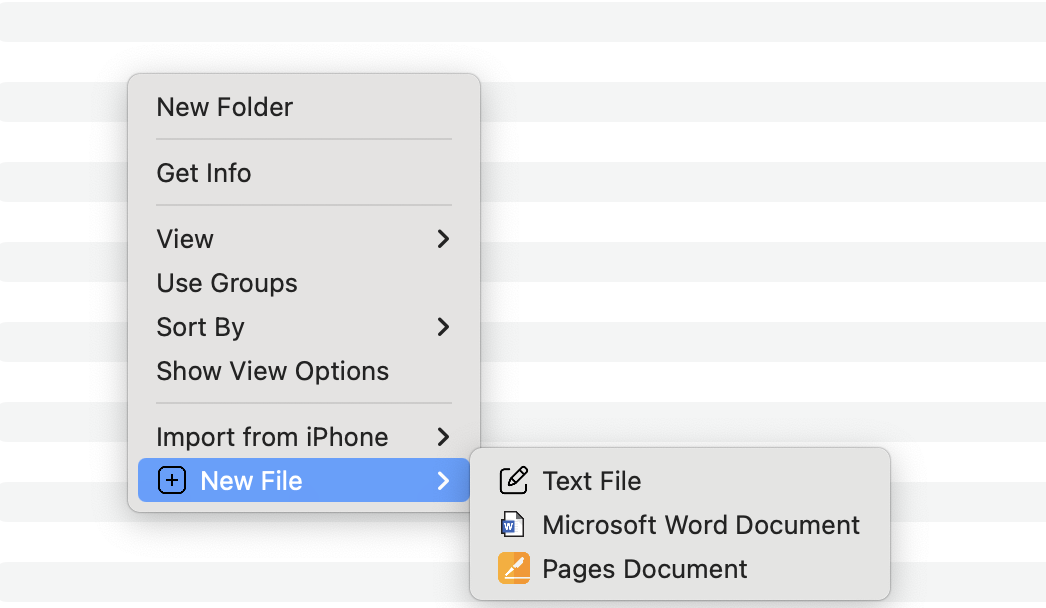
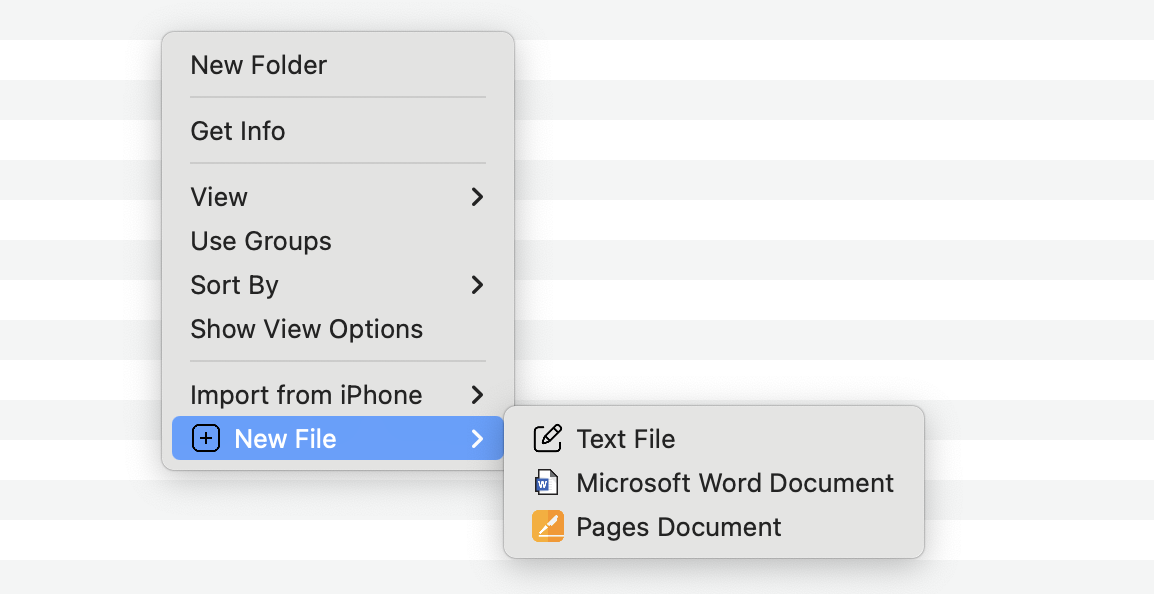
updated demo image

diff --git a/README.md b/README.md
@@ -6,3 +6,5 @@ So I fixed that! Introducing **MacNewFile**!!
 
 MacNewFile is very lightweight and simple. You right click anywhere in Finder (or on your desktop) and you get a menu to create new files!
 
+![MacNewFile Demo](https://github.com/GarfieldFluffJr/MacNewFile/blob/main/MacNewFile%20demo%20image.png?raw=true)
+
